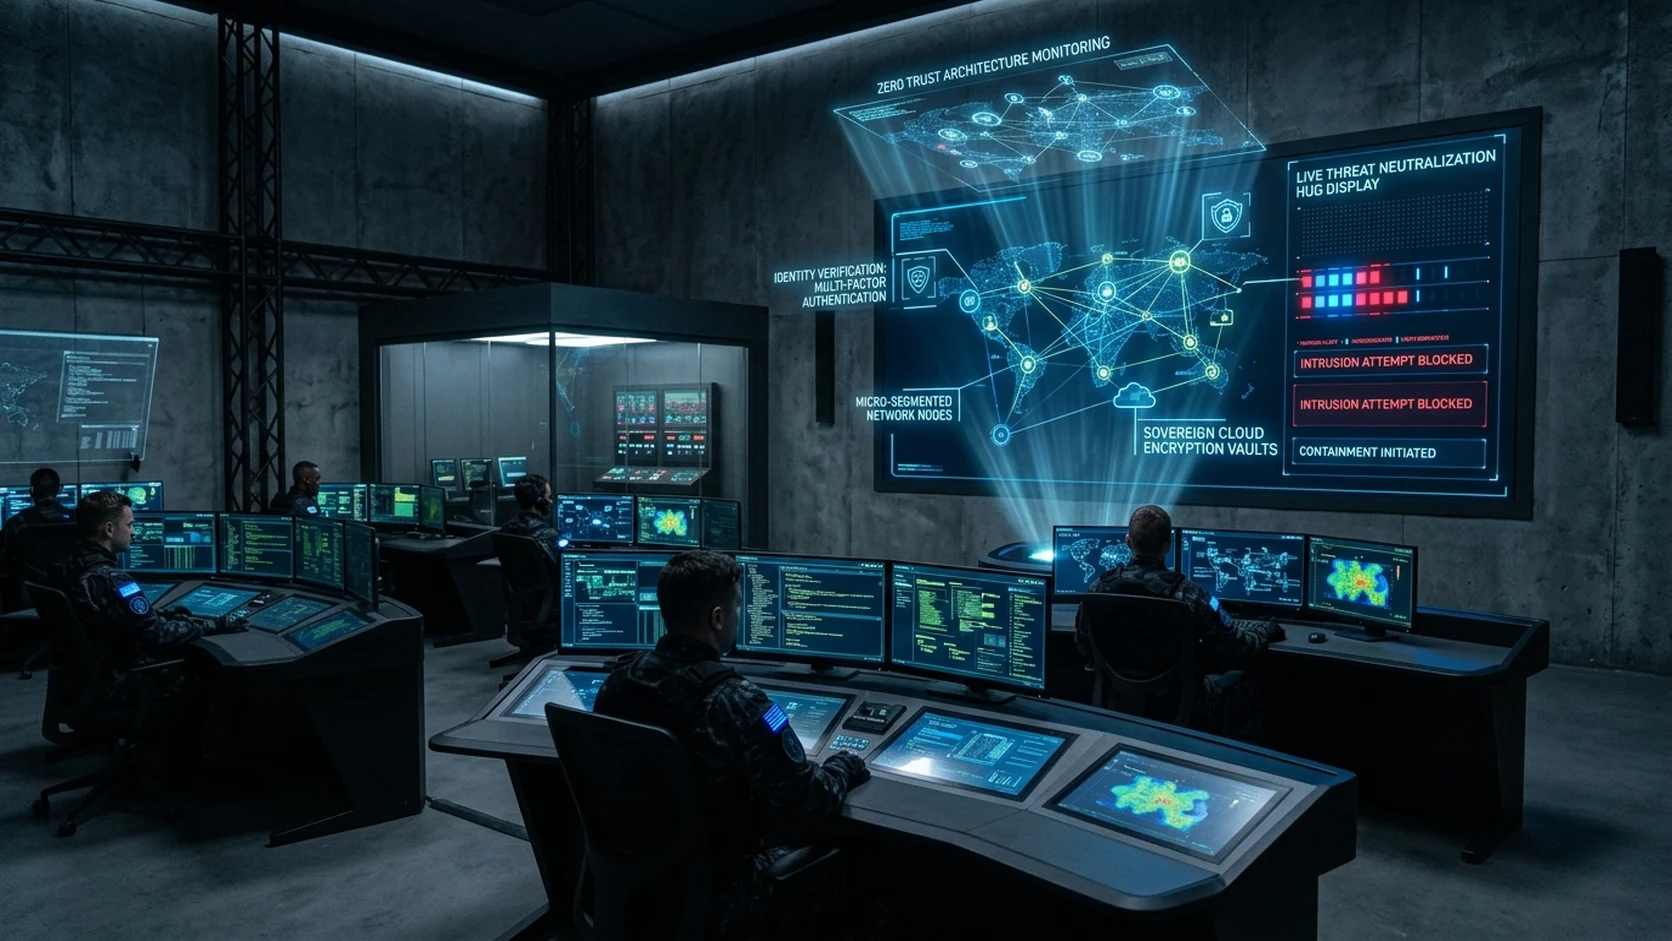
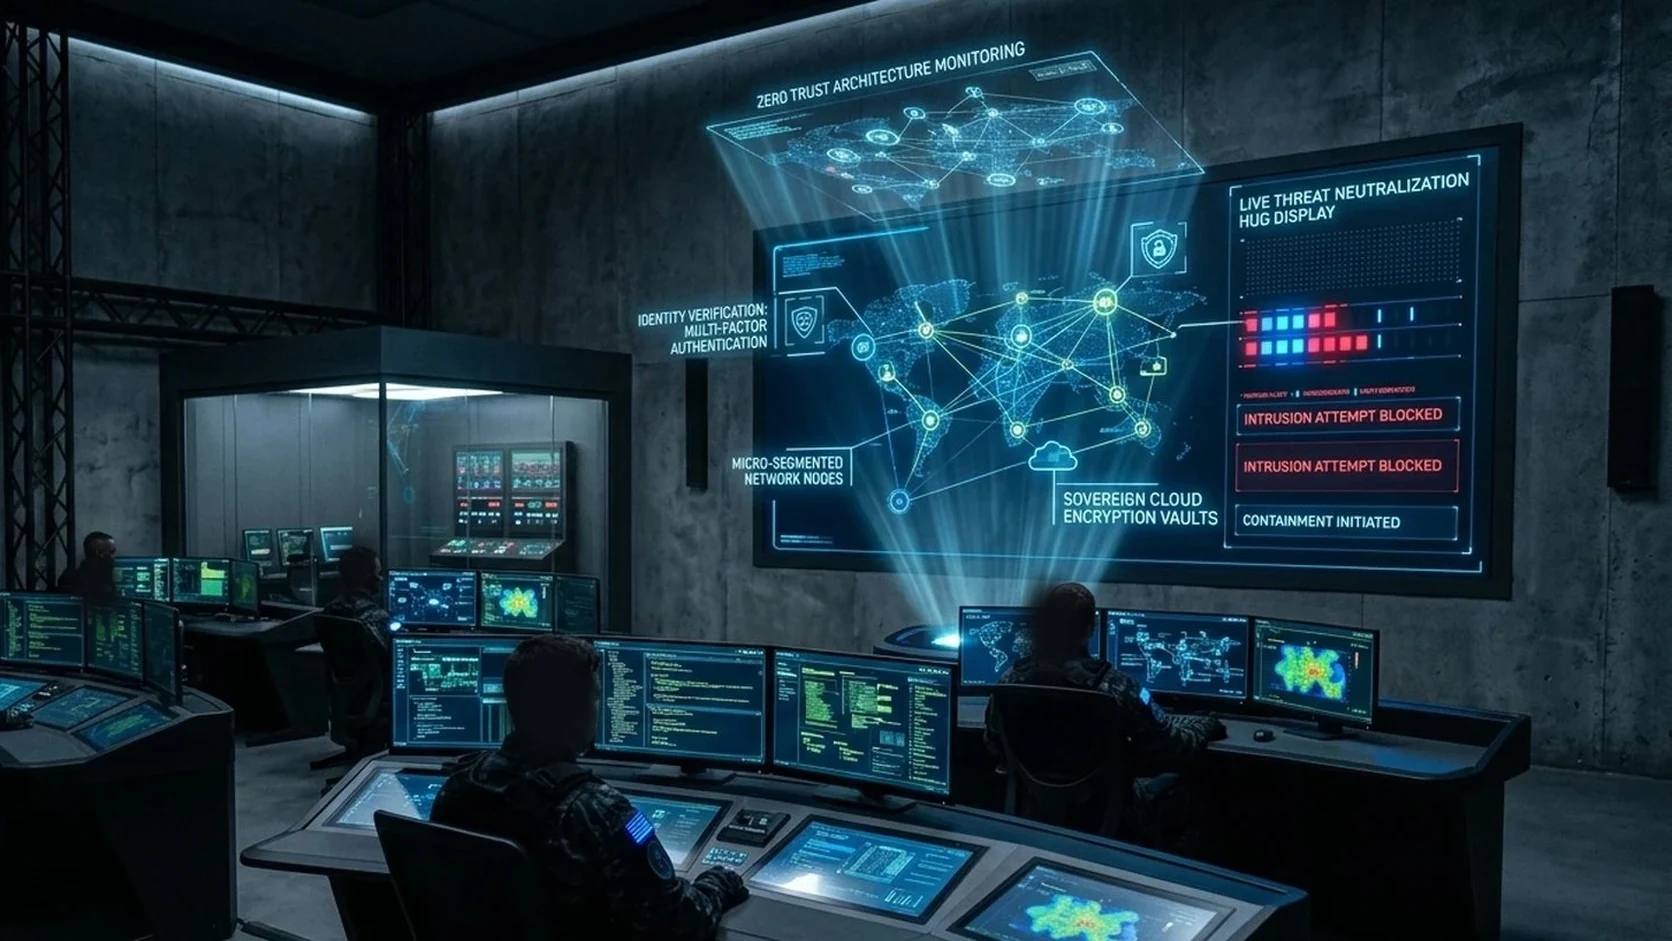
Remove all human faces from website images: deploy face-free sovereign datacenters, vaults, dealrooms, and anonymous back-turned silhouettes

diff --git a/index.html b/index.html
@@ -4037,7 +4037,7 @@
 
       <div class="visual-gallery">
         <figure class="visual-story">
-          <img src="assets/engineering-room.webp" width="1672" height="941" alt="Deux ingénieurs examinent une baie de serveurs dans un centre de données." loading="lazy" decoding="async">
+          <img src="assets/engineering-room.webp" width="1672" height="941" alt="Baie de serveurs haute densité et console de diagnostic réseau dans un centre de données souverain." loading="lazy" decoding="async">
           <figcaption><span class="story-kicker">01 / PLATEFORMES</span><strong>Architecture en production</strong><p>Comprendre les dépendances techniques avant de moderniser.</p></figcaption>
         </figure>
         <figure class="visual-story">
@@ -4347,11 +4347,11 @@
       <div class="field-stories-head"><div><span class="field-kicker">DANS LES SYSTÈMES RÉELS</span><h2>Des décisions qui touchent chaque environnement.</h2></div><p>De la plateforme de données au laboratoire, une architecture fiable rend les choix stratégiques possibles.</p></div>
       <div class="field-story-grid">
         <figure class="field-story">
-          <img src="assets/data-collaboration.webp" width="1672" height="941" alt="Équipe de spécialistes des données travaillant ensemble dans un bureau." loading="lazy" decoding="async">
-          <figcaption><span class="field-index">03 / DATA & IA</span><h3>Données gouvernées</h3><p>Des équipes, des usages et des contrôles à relier dans une même architecture.</p></figcaption>
+          <img src="assets/data-collaboration.webp" width="1672" height="941" alt="Supervision analytique et consoles de données sécurisées dans un centre décisionnel." loading="lazy" decoding="async">
+          <figcaption><span class="field-index">03 / DATA & IA</span><h3>Données gouvernées</h3><p>Des flux, des usages et des contrôles souverains à relier dans une même architecture.</p></figcaption>
         </figure>
         <figure class="field-story">
-          <img src="assets/life-sciences-lab.webp" width="1672" height="941" alt="Chercheurs travaillant dans un laboratoire contemporain." loading="lazy" decoding="async">
+          <img src="assets/life-sciences-lab.webp" width="1672" height="941" alt="Environnement de laboratoire et robotique analytique pour sciences de la vie." loading="lazy" decoding="async">
           <figcaption><span class="field-index">04 / SANTÉ & SCIENCES</span><h3>Environnements sensibles</h3><p>La qualité des flux et des accès compte autant que la performance des systèmes.</p></figcaption>
         </figure>
       </div>
@@ -4712,7 +4712,7 @@
 
       <!-- CAREERS LEADERSHIP SQUAD SHOWCASE -->
       <div class="section-showcase-wrap crosshair-corner">
-        <img src="assets/careers-leadership-squad.webp" width="1376" height="768" alt="Squads d'ingénierie critique et consultants en gouvernance technologique Auban" loading="lazy" class="section-showcase-img">
+        <img src="assets/careers-leadership-squad.webp" width="1376" height="768" alt="Espace d'architecture logicielle et conception de systèmes critiques chez Auban à Paris" loading="lazy" class="section-showcase-img">
         <div class="section-showcase-hud">
           <span class="showcase-pill showcase-pill-brass">SQUADS HYBRIDES AUBAN</span>
           <span class="showcase-caption">ÉQUIPES SENIORS RÉUNISSANT CONSULTANTS STRATÉGIQUES EN SCIENCES DURES, CISOS ET ARCHITECTES SYSTÈMES</span>
@@ -4842,7 +4842,7 @@
 
       <!-- SOVEREIGN ALLIANCES SUMMIT SHOWCASE -->
       <div class="section-showcase-wrap crosshair-corner">
-        <img src="assets/sovereign-alliances-summit.webp" width="1376" height="768" alt="Sommet des alliances technologiques souveraines européennes et de la défense" loading="lazy" class="section-showcase-img">
+        <img src="assets/sovereign-alliances-summit.webp" width="1376" height="768" alt="Hémicycle de conférence pour alliances technologiques souveraines et défense européenne" loading="lazy" class="section-showcase-img">
         <div class="section-showcase-hud">
           <span class="showcase-pill showcase-pill-blue">ALLIANCES EUROPÉENNES</span>
           <span class="showcase-caption">SYNERGIES STRATÉGIQUES ENTRE LE CAPITAL-INVESTISSEMENT, LE CLOUD SOUVERAIN ET LA DÉFENSE EUROPÉENNE</span>

diff --git a/nl.html b/nl.html
@@ -4037,7 +4037,7 @@
 
       <div class="visual-gallery">
         <figure class="visual-story">
-          <img src="assets/engineering-room.webp" width="1672" height="941" alt="Deux ingénieurs examinent une baie de serveurs dans un centre de données." loading="lazy" decoding="async">
+          <img src="assets/engineering-room.webp" width="1672" height="941" alt="Serverrack met hoge dichtheid en netwerkdiagnoseterminal in een soeverein datacenter." loading="lazy" decoding="async">
           <figcaption><span class="story-kicker">01 / PLATEFORMES</span><strong>Architecture en production</strong><p>Comprendre les dépendances techniques avant de moderniser.</p></figcaption>
         </figure>
         <figure class="visual-story">
@@ -4347,11 +4347,11 @@
       <div class="field-stories-head"><div><span class="field-kicker">DANS LES SYSTÈMES RÉELS</span><h2>Des décisions qui touchent chaque environnement.</h2></div><p>De la plateforme de données au laboratoire, une architecture fiable rend les choix stratégiques possibles.</p></div>
       <div class="field-story-grid">
         <figure class="field-story">
-          <img src="assets/data-collaboration.webp" width="1672" height="941" alt="Équipe de spécialistes des données travaillant ensemble dans un bureau." loading="lazy" decoding="async">
-          <figcaption><span class="field-index">03 / DATA & IA</span><h3>Données gouvernées</h3><p>Des équipes, des usages et des contrôles à relier dans une même architecture.</p></figcaption>
+          <img src="assets/data-collaboration.webp" width="1672" height="941" alt="Analytische supervisie en beveiligde dataconsoles in een strategisch beslissingscentrum." loading="lazy" decoding="async">
+          <figcaption><span class="field-index">03 / DATA & IA</span><h3>Données gouvernées</h3><p>Soevereine datastromen, toepassingen en controles verenigd binnen één architectuur.</p></figcaption>
         </figure>
         <figure class="field-story">
-          <img src="assets/life-sciences-lab.webp" width="1672" height="941" alt="Chercheurs travaillant dans un laboratoire contemporain." loading="lazy" decoding="async">
+          <img src="assets/life-sciences-lab.webp" width="1672" height="941" alt="Laboratoriumomgeving en geautomatiseerde robotica voor biowetenschappen." loading="lazy" decoding="async">
           <figcaption><span class="field-index">04 / SANTÉ & SCIENCES</span><h3>Environnements sensibles</h3><p>La qualité des flux et des accès compte autant que la performance des systèmes.</p></figcaption>
         </figure>
       </div>
@@ -4712,7 +4712,7 @@
 
       <!-- CAREERS LEADERSHIP SQUAD SHOWCASE -->
       <div class="section-showcase-wrap crosshair-corner">
-        <img src="assets/careers-leadership-squad.webp" width="1376" height="768" alt="Squads d'ingénierie critique et consultants en gouvernance technologique Auban" loading="lazy" class="section-showcase-img">
+        <img src="assets/careers-leadership-squad.webp" width="1376" height="768" alt="Ruimte voor software-architectuur en engineering van kritieke systemen bij Auban in Parijs" loading="lazy" class="section-showcase-img">
         <div class="section-showcase-hud">
           <span class="showcase-pill showcase-pill-brass">AUBAN HYBRIDE SQUADS</span>
           <span class="showcase-caption">SENIOR TEAMS MET STEM-STRATEGIEADVISEURS, CISO'S EN SYSTEEMARCHITECTEN</span>
@@ -4842,7 +4842,7 @@
 
       <!-- SOVEREIGN ALLIANCES SUMMIT SHOWCASE -->
       <div class="section-showcase-wrap crosshair-corner">
-        <img src="assets/sovereign-alliances-summit.webp" width="1376" height="768" alt="Sommet des alliances technologiques souveraines européennes et de la défense" loading="lazy" class="section-showcase-img">
+        <img src="assets/sovereign-alliances-summit.webp" width="1376" height="768" alt="Conferentie-amfitheater voor Europese soevereine technologie- en defensieallianties" loading="lazy" class="section-showcase-img">
         <div class="section-showcase-hud">
           <span class="showcase-pill showcase-pill-blue">EUROPESE ALLIANTIES</span>
           <span class="showcase-caption">STRATEGISCHE SYNERGIE TUSSEN PRIVATE EQUITY, SOEVEREINE CLOUD EN EUROPESE DEFENSIE</span>

diff --git a/en.html b/en.html
@@ -4037,7 +4037,7 @@
 
       <div class="visual-gallery">
         <figure class="visual-story">
-          <img src="assets/engineering-room.webp" width="1672" height="941" alt="Deux ingénieurs examinent une baie de serveurs dans un centre de données." loading="lazy" decoding="async">
+          <img src="assets/engineering-room.webp" width="1672" height="941" alt="High-density server rack and network diagnostic terminal in a sovereign data center." loading="lazy" decoding="async">
           <figcaption><span class="story-kicker">01 / PLATEFORMES</span><strong>Architecture en production</strong><p>Comprendre les dépendances techniques avant de moderniser.</p></figcaption>
         </figure>
         <figure class="visual-story">
@@ -4347,11 +4347,11 @@
       <div class="field-stories-head"><div><span class="field-kicker">DANS LES SYSTÈMES RÉELS</span><h2>Des décisions qui touchent chaque environnement.</h2></div><p>De la plateforme de données au laboratoire, une architecture fiable rend les choix stratégiques possibles.</p></div>
       <div class="field-story-grid">
         <figure class="field-story">
-          <img src="assets/data-collaboration.webp" width="1672" height="941" alt="Équipe de spécialistes des données travaillant ensemble dans un bureau." loading="lazy" decoding="async">
-          <figcaption><span class="field-index">03 / DATA & IA</span><h3>Données gouvernées</h3><p>Des équipes, des usages et des contrôles à relier dans une même architecture.</p></figcaption>
+          <img src="assets/data-collaboration.webp" width="1672" height="941" alt="Analytical supervision and secured data consoles in an executive decision centre." loading="lazy" decoding="async">
+          <figcaption><span class="field-index">03 / DATA & IA</span><h3>Données gouvernées</h3><p>Sovereign data streams, usages, and controls united under a single architecture.</p></figcaption>
         </figure>
         <figure class="field-story">
-          <img src="assets/life-sciences-lab.webp" width="1672" height="941" alt="Chercheurs travaillant dans un laboratoire contemporain." loading="lazy" decoding="async">
+          <img src="assets/life-sciences-lab.webp" width="1672" height="941" alt="Laboratory environment and automated analytical robotics for life sciences." loading="lazy" decoding="async">
           <figcaption><span class="field-index">04 / SANTÉ & SCIENCES</span><h3>Environnements sensibles</h3><p>La qualité des flux et des accès compte autant que la performance des systèmes.</p></figcaption>
         </figure>
       </div>
@@ -4712,7 +4712,7 @@
 
       <!-- CAREERS LEADERSHIP SQUAD SHOWCASE -->
       <div class="section-showcase-wrap crosshair-corner">
-        <img src="assets/careers-leadership-squad.webp" width="1376" height="768" alt="Squads d'ingénierie critique et consultants en gouvernance technologique Auban" loading="lazy" class="section-showcase-img">
+        <img src="assets/careers-leadership-squad.webp" width="1376" height="768" alt="Software architecture and critical systems engineering loft at Auban in Paris" loading="lazy" class="section-showcase-img">
         <div class="section-showcase-hud">
           <span class="showcase-pill showcase-pill-brass">AUBAN HYBRID SQUADS</span>
           <span class="showcase-caption">SENIOR TEAMS UNITING STEM STRATEGY CONSULTANTS, CISOS AND CRITICAL SYSTEMS ARCHITECTS</span>
@@ -4842,7 +4842,7 @@
 
       <!-- SOVEREIGN ALLIANCES SUMMIT SHOWCASE -->
       <div class="section-showcase-wrap crosshair-corner">
-        <img src="assets/sovereign-alliances-summit.webp" width="1376" height="768" alt="Sommet des alliances technologiques souveraines européennes et de la défense" loading="lazy" class="section-showcase-img">
+        <img src="assets/sovereign-alliances-summit.webp" width="1376" height="768" alt="Conference amphitheatre for European sovereign technology and defence alliances" loading="lazy" class="section-showcase-img">
         <div class="section-showcase-hud">
           <span class="showcase-pill showcase-pill-blue">EUROPEAN ALLIANCES</span>
           <span class="showcase-caption">STRATEGIC SYNERGIES BETWEEN PRIVATE EQUITY, SOVEREIGN CLOUD AND EUROPEAN DEFENSE</span>
